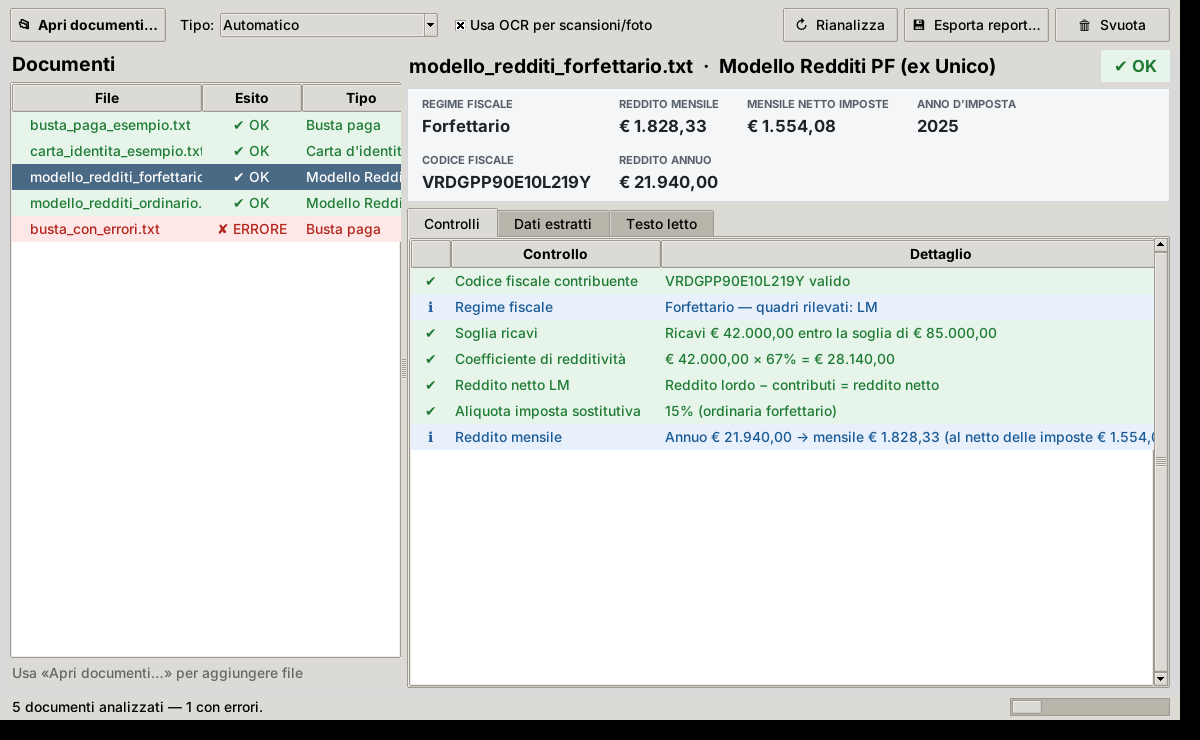
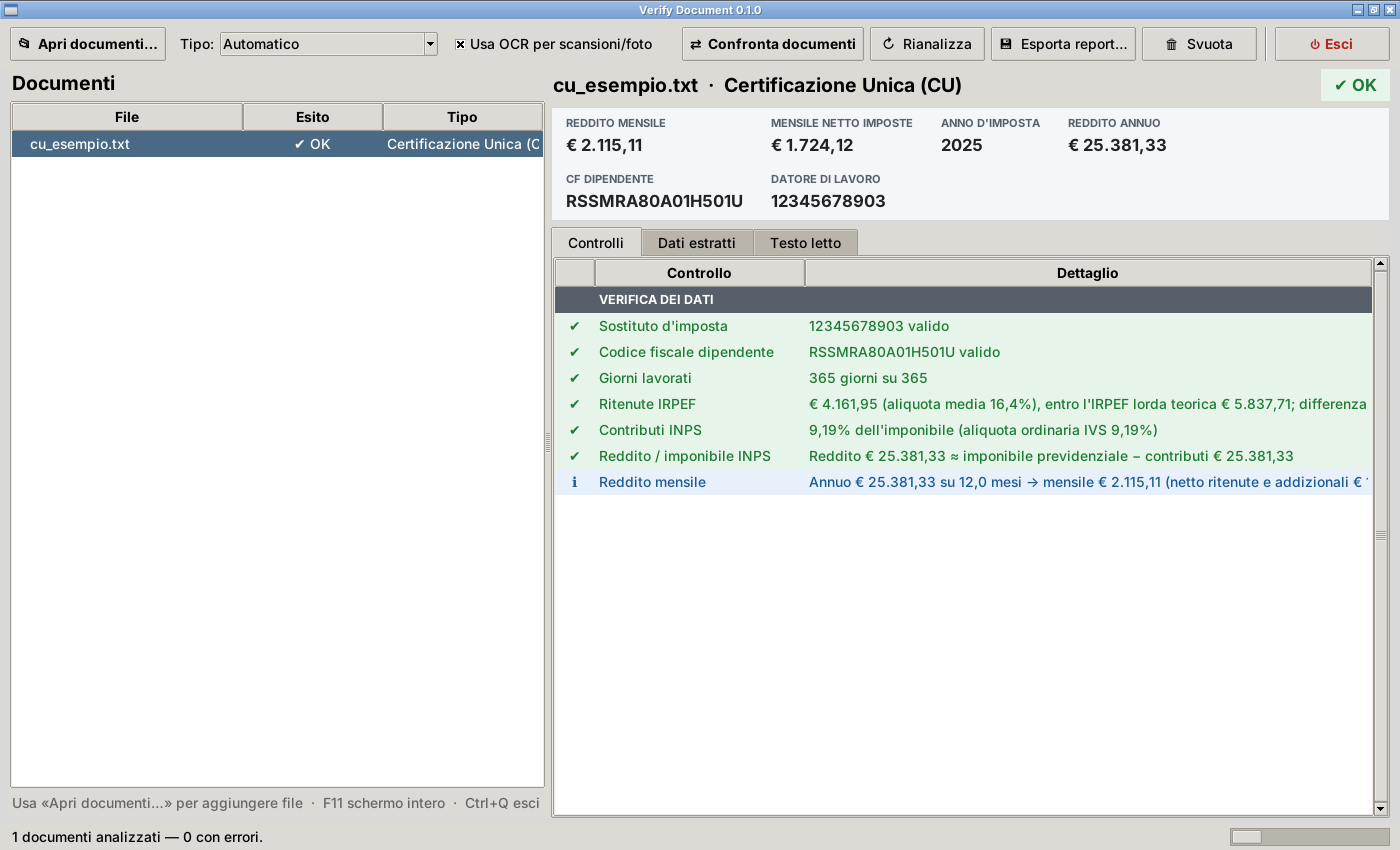
Interfaccia: pulsante Esci e apertura a tutto schermo
- Pulsante "Esci" (anche Ctrl+Q e la X della finestra) con richiesta di
  conferma se ci sono analisi in corso o report non esportati
- All'avvio la finestra si apre massimizzata (Windows, macOS e Linux)
- F11 per lo schermo intero senza bordi, Esc per tornare alla finestra

Claude-Session: https://claude.ai/code/session_01Knr8rxvuAFzrsEjZEMeXvD

Changed region(s): [[0.0, 0.0, 1.0, 1.0]]

diff --git a/verify_document/gui.py b/verify_document/gui.py
@@ -104,6 +104,11 @@ class App:
         root.title(f"Verify Document {__version__}")
         root.geometry("1180x720")
         root.minsize(900, 560)
+        self._massimizza()
+        root.protocol("WM_DELETE_WINDOW", self.esci)  # anche la X della finestra chiede conferma
+        root.bind("<Control-q>", lambda _e: self.esci())
+        root.bind("<F11>", lambda _e: self.schermo_intero())
+        root.bind("<Escape>", lambda _e: self.schermo_intero(False))
         self._stile()
         self._costruisci()
         self.root.after(150, self._controlla_coda)
@@ -118,6 +123,7 @@ class App:
         st.configure("Titolo.TLabel", font=("Segoe UI", 14, "bold"))
         st.configure("Esito.TLabel", font=("Segoe UI", 12, "bold"), padding=(10, 4))
         st.configure("Accent.TButton", font=("Segoe UI", 10, "bold"))
+        st.configure("Esci.TButton", font=("Segoe UI", 10, "bold"), foreground="#b3261e")
 
     def _costruisci(self) -> None:
         # Barra superiore
@@ -132,6 +138,8 @@ class App:
         self.var_ocr = tk.BooleanVar(value=True)
         ttk.Checkbutton(barra, text="Usa OCR per scansioni/foto", variable=self.var_ocr).pack(
             side="left", padx=10)
+        ttk.Button(barra, text="⏻  Esci", style="Esci.TButton", command=self.esci).pack(side="right")
+        ttk.Separator(barra, orient="vertical").pack(side="right", fill="y", padx=8)
         ttk.Button(barra, text="🗑  Svuota", command=self.svuota).pack(side="right")
         ttk.Button(barra, text="💾  Esporta report…", command=self.esporta).pack(side="right", padx=6)
         ttk.Button(barra, text="↻  Rianalizza", command=self.rianalizza).pack(side="right")
@@ -159,6 +167,7 @@ class App:
         self.lista.bind("<<TreeviewSelect>>", lambda _e: self.mostra_selezionato())
         suggerimento = ("Trascina qui i file oppure usa «Apri documenti…»" if self.dnd
                         else "Usa «Apri documenti…» per aggiungere file")
+        suggerimento += "  ·  F11 schermo intero  ·  Ctrl+Q esci"
         ttk.Label(sx, text=suggerimento, foreground="#666").pack(anchor="w", pady=4)
         corpo.add(sx, weight=1)
 
@@ -373,6 +382,36 @@ class App:
             self.lista.item(chiave, values=("in corso…", ""), tags=("attesa",))
             self.risultati.pop(chiave, None)
             self._avvia_analisi(Path(chiave), chiave)
+
+    def _massimizza(self) -> None:
+        """Apre la finestra a tutto schermo (massimizzata, con la barra delle applicazioni visibile)."""
+        try:
+            self.root.state("zoomed")  # Windows e macOS
+        except tk.TclError:
+            try:
+                self.root.attributes("-zoomed", True)  # Linux
+            except tk.TclError:
+                larghezza, altezza = self.root.winfo_screenwidth(), self.root.winfo_screenheight()
+                self.root.geometry(f"{larghezza}x{altezza}+0+0")
+
+    def schermo_intero(self, attivo: bool | None = None) -> None:
+        """F11: schermo intero senza bordi; Esc: torna alla finestra massimizzata."""
+        if attivo is None:
+            attivo = not self.root.attributes("-fullscreen")
+        self.root.attributes("-fullscreen", attivo)
+        if not attivo:
+            self._massimizza()
+
+    def esci(self) -> None:
+        if self.in_corso:
+            domanda = "Ci sono analisi ancora in corso. Uscire comunque?"
+        elif self.risultati:
+            domanda = "Uscire da Verify Document?\nI report non esportati andranno persi."
+        else:
+            domanda = None
+        if domanda and not messagebox.askyesno("Esci", domanda, icon="question", parent=self.root):
+            return
+        self.root.destroy()
 
     def svuota(self) -> None:
         if self.in_corso:

diff --git a/README.md b/README.md
@@ -100,6 +100,8 @@ python -m verify_document.gui
   **Dati estratti** e **Testo letto** (per capire cosa non è stato trovato)
 - **Esporta report…** in .txt o .json; **Rianalizza** dopo aver cambiato il tipo di documento
 - per trascinare i file nella finestra: `pip install tkinterdnd2`
+- si apre a tutto schermo; **F11** schermo intero senza bordi, **Esc** per tornare indietro
+- **⏻ Esci** (o **Ctrl+Q**, o la X della finestra) chiede conferma se ci sono documenti analizzati
 
 ## Uso da riga di comando
 
